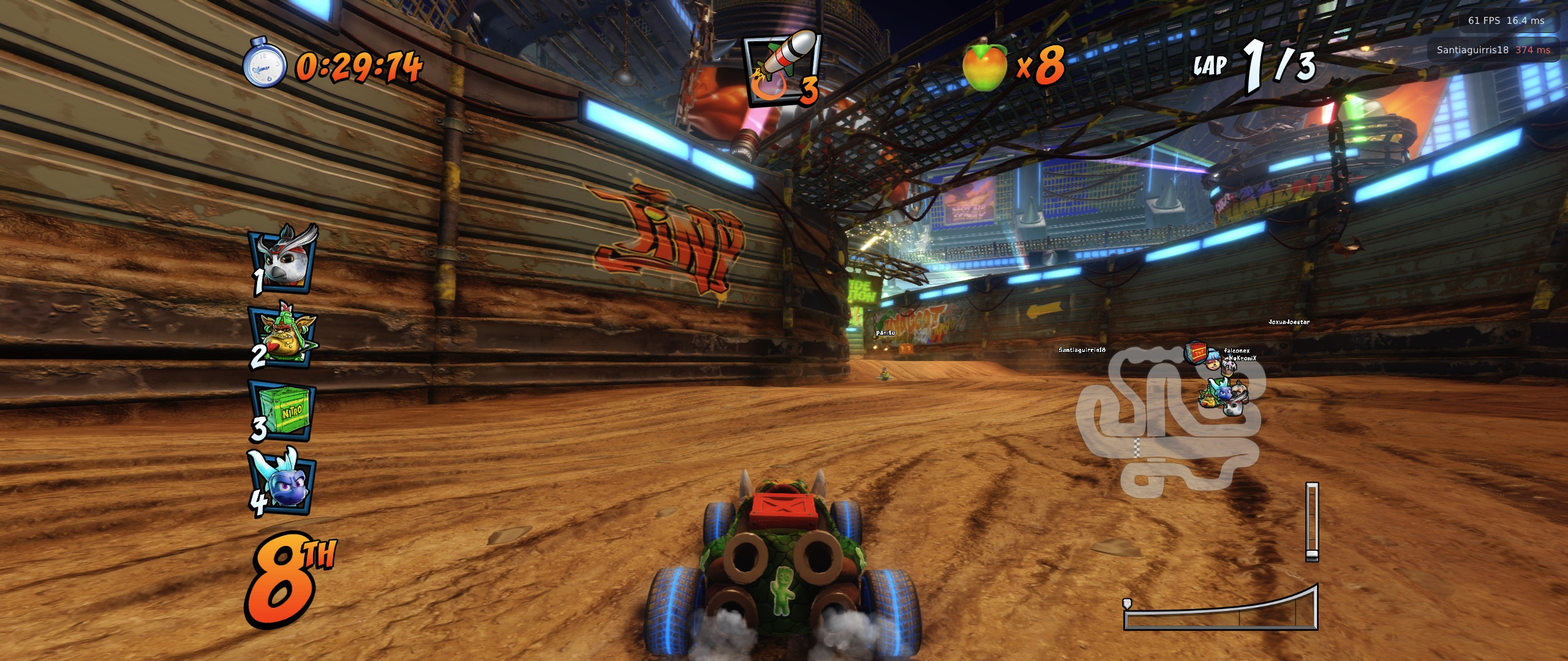
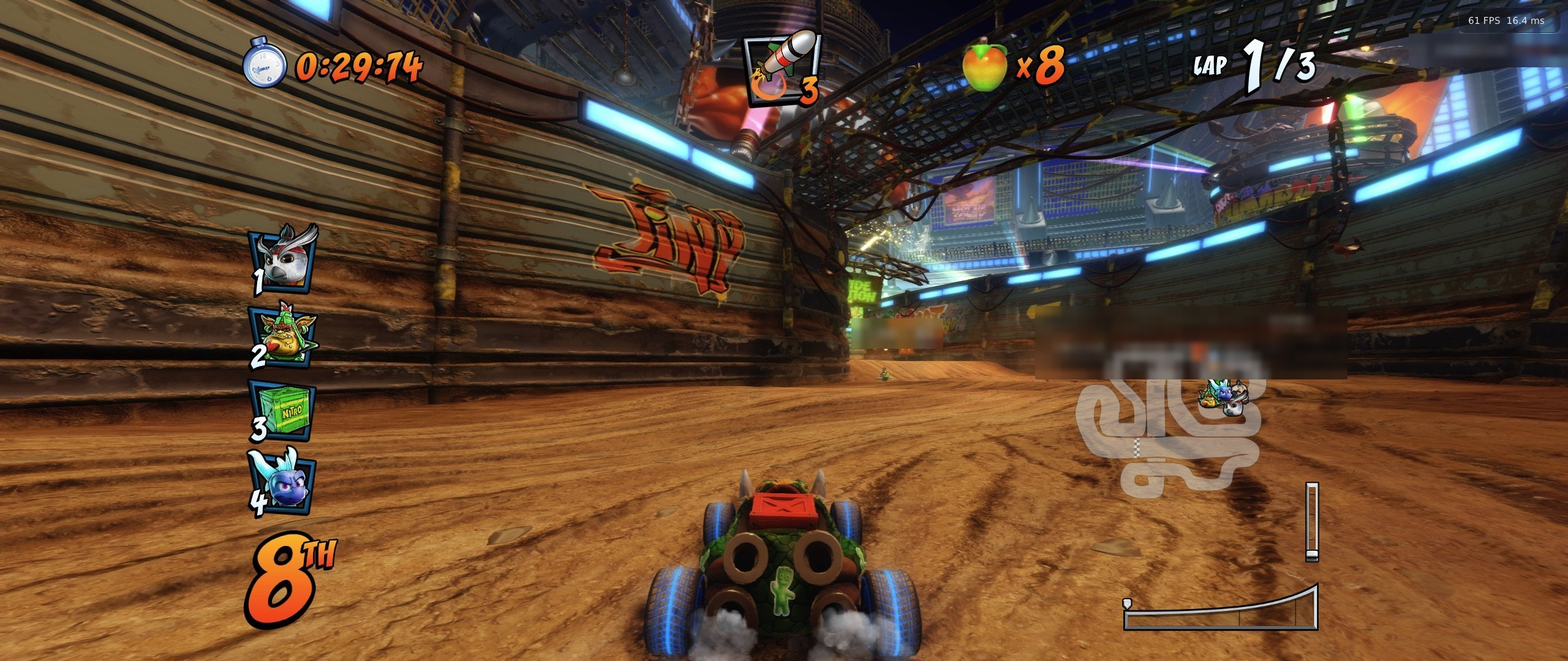
README (EN/ID): neutral wording, upstream README renamed to README-OCTR.md, other players' nicknames and local paths blurred in screenshots
Claude-Session: https://claude.ai/code/session_01FV5uGuRfTVXw7BX41maKGX

diff --git a/README.id.md b/README.id.md
@@ -5,9 +5,9 @@
 
 **Port macOS (Apple Silicon) dari [OCTR: CTR Nitro-Fueled PC, online](https://github.com/Ryu7w7/OCTR-NitroFueled-PC), dikerjakan oleh Momochan32.**
 
-> **Penting.** Ini **fork**, bukan proyek yang dibuat dari nol. Hampir seluruh isinya hasil kerja komunitas: cara menjalankan game di PC, grafis, mode online, patch, dan launcher. Yang dikerjakan di fork ini adalah **membuatnya bisa berjalan di macOS** (rinciannya di [Apa yang dikerjakan fork ini](#apa-yang-dikerjakan-fork-ini)).
+> **Tentang proyek ini.** Ini **fork** dari OCTR, bukan proyek yang dibuat dari nol. Hampir seluruh isinya hasil karya proyek-proyek komunitas yang disebut di bawah: cara menjalankan game di PC, grafis, mode online, patch, dan launcher. Fork ini menambahkan **dukungan macOS** (rinciannya di [Yang ditambahkan fork ini](#yang-ditambahkan-fork-ini)).
 >
-> Proyek ini **tidak resmi**. Tidak berafiliasi dengan, tidak didukung oleh, dan bukan bagian dari tim OCTR, SacredFire, CTR-NitroFueled-PC, shadPS4, Activision, Beenox, atau Sony. Masalah pada versi Mac ini **jangan dilaporkan ke proyek-proyek tersebut**. Laporkan di [Issues repo ini](https://github.com/momochan32/ctr-on-mac/issues).
+> Port ini **tidak resmi** dan independen: tidak berafiliasi dengan, dan tidak didukung oleh, tim OCTR, SacredFire, CTR-NitroFueled-PC, shadPS4, Activision, Beenox, maupun Sony. Supaya tidak menambah beban para pengembang asli, laporkan hal yang khusus versi Mac di [Issues repo ini](https://github.com/momochan32/ctr-on-mac/issues).
 
 ![Balapan online di monitor ultrawide 21:9](docs/macos/online-race-ultrawide.jpg)
 
@@ -31,14 +31,14 @@ Nama "CTR-Online on Mac" hanya nama deskriptif untuk port macOS ini. Bukan rilis
 
 ---
 
-## Apa yang dikerjakan fork ini
+## Yang ditambahkan fork ini
 
 Semua perubahan bisa dilihat di riwayat commit. Garis besarnya:
 
 **Port ke macOS**
 - Runtime di macOS / Rosetta 2: pengganti API khusus Linux (`src/compat_mac.h`), TCB guest di slot `pthread` (meniru pendekatan port Windows di proyek asal), rentang memori PS4 digeser di atas area yang dipakai GPU Apple Silicon, dan page fault lewat `SIGBUS`.
 - Grafis: build library GPU untuk macOS, jendela SDL di main thread, surface Metal lewat KosmicKrisp, dan memori game diimpor ke Vulkan (`VK_EXT_external_memory_host`).
-- Penyesuaian untuk driver Mac: GPU breadcrumbs dimatikan karena membuat GPU bekerja serial, MSAA dimatikan karena hasilnya hitam, dan fallback tipe memori untuk FSR 3.1.
+- Pengaturan yang disesuaikan untuk sistem grafis Mac: diagnostik GPU breadcrumbs dimatikan secara default di macOS (di sana biayanya besar untuk performa), MSAA belum ditawarkan (belum tampil dengan benar di setup ini), dan FSR 3.1 mendapat fallback tipe memori untuk unified memory Apple.
 - Restart dari dalam game lewat `posix_spawn`.
 
 **Launcher dan paket**
@@ -46,7 +46,7 @@ Semua perubahan bisa dilihat di riwayat commit. Garis besarnya:
 - Terjemahan Bahasa Indonesia dan halaman kredit.
 - Aplikasi `.app` dan DMG.
 
-Fitur game (online, patch, layout 21:9, FSR, mods, pencapaian) **berasal dari proyek asal**. Fork ini hanya membuatnya berjalan di Mac.
+Fitur game (online, patch, layout 21:9, FSR, mods, pencapaian) **adalah karya proyek-proyek asal**. Fork ini membuatnya bisa dipakai di Mac.
 
 ---
 
@@ -90,7 +90,7 @@ Angka ini dari pengujian pribadi di satu Mac, bukan benchmark resmi. Hasil di Ma
   ```sh
   brew install bash python gtk4 libadwaita pygobject3 adwaita-icon-theme
   ```
-- **Game milikmu sendiri.** Dump CTR Nitro-Fueled **CUSA13795 v1.21** (base + update digabung) dari konsol/salinan yang kamu miliki secara sah. **Repo dan rilis ini tidak menyertakan, membagikan, atau menautkan file game, firmware, maupun kunci apa pun.** Jangan minta file game di Issues.
+- **Game milikmu sendiri.** Dump CTR Nitro-Fueled **CUSA13795 v1.21** (base + update digabung) dari konsol/salinan yang kamu miliki secara sah. **Repo dan rilis ini tidak menyertakan, membagikan, atau menautkan file game, firmware, maupun kunci apa pun.** Permintaan file game tidak dapat dilayani.
 
 ### Pasang
 1. Unduh `CTR-Online-on-Mac.dmg` dari [Releases](https://github.com/momochan32/ctr-on-mac/releases).
@@ -111,13 +111,13 @@ Pengaturan dan save disimpan di `~/Library/Application Support/CTR-Online`. Menu
 Mode online memakai **server RyuNET milik proyek OCTR**, bukan server milik fork ini.
 - Aturan, moderasi, dan ban sepenuhnya wewenang admin OCTR. Patuhi aturan mereka (tercantum di launcher).
 - Pertanyaan atau banding soal server diajukan di komunitas OCTR (tautan Discord ada di launcher).
-- Versi Mac bisa saja berperilaku berbeda dari versi resmi. Kalau admin server meminta klien tidak resmi tidak dipakai di server mereka, permintaan itu akan dihormati.
+- Versi Mac bisa saja berperilaku berbeda dari versi resmi. Setiap permintaan admin server terkait klien tidak resmi akan diikuti.
 
 ---
 
 ## Batasan yang diketahui
 
-- MSAA tidak tersedia di Mac (driver menggambar scene MSAA hitam). FSR 3.1 dipakai sebagai gantinya.
+- MSAA belum tersedia di Mac; anti-aliasing FSR 3.1 dipakai sebagai gantinya.
 - Mode PS4 Pro otomatis mati saat layout 21:9 aktif (perilaku proyek asal).
 - Layar MacBook (16:10) menampilkan bar hitam tipis, karena game ini 16:9.
 - Baru dites di satu perangkat (MacBook Pro M3 Max).
@@ -143,7 +143,7 @@ Terima kasih kepada semua orang yang karyanya menjadi dasar port ini:
 - **T3CHNOLOG1C**: SacredFire, port Linux native.
 - **GetLostIn**: CTR-NitroFueled-PC (build Windows, perbaikan MSAA, bulu karakter, rendering).
 - **Ryu7w7** dan kontributor OCTR: mode online RyuNET, server, launcher, mods, dan banyak perbaikan.
-- **Kontributor OCTR** yang disebut di riwayat rilisnya, antara lain tcosi (layout 21:9/32:9, mods), Brony666 (launcher Linux, Achievements, Mods), SoyAlejandroCalixto, Vo1dTear, n0buholic, MetaHeart, dan Naif Alqurashi. Daftar lengkapnya ada di [README-SacredFire.md](README-SacredFire.md) dan riwayat commit repo ini.
+- **Kontributor OCTR** yang disebut di riwayat rilisnya, antara lain tcosi (layout 21:9/32:9, mods), Brony666 (launcher Linux, Achievements, Mods), SoyAlejandroCalixto, Vo1dTear, n0buholic, MetaHeart, dan Naif Alqurashi. Daftar lengkapnya ada di [README-OCTR.md](README-OCTR.md) dan riwayat commit repo ini.
 - **bbport**: desain runtime asal.
 - **Tim shadPS4**: inti grafis dan shader recompiler.
 - **Pengembang Mesa / KosmicKrisp**: Vulkan di atas Metal.
@@ -161,7 +161,7 @@ Kalau ada nama atau karya yang terlewat atau salah disebut, kabari lewat Issues 
 
 - Kode berlisensi **GPL-2.0-or-later**, sama seperti proyek asal (lihat [LICENSE](LICENSE)). Komponen pihak ketiga mengikuti lisensinya masing-masing. Source lengkap untuk setiap rilis ada di repo ini.
 - *Crash Team Racing Nitro-Fueled*, *Crash Bandicoot*, dan semua merek terkait adalah milik **Activision Publishing, Inc.** *PlayStation* dan *PS4* adalah merek **Sony Interactive Entertainment**. Nama-nama tersebut dipakai hanya untuk menjelaskan kompatibilitas.
-- Proyek komunitas non-komersial untuk preservasi dan pemakaian pribadi: tidak dijual, tidak menerima donasi, dan tidak menyertakan konten berhak cipta milik pemegang hak game.
+- Proyek komunitas non-komersial untuk pemakaian pribadi dan preservasi: tidak dijual, tidak menerima donasi, dan tidak berisi konten milik pemegang hak game.
 - Pemegang hak yang keberatan dengan isi repo ini dapat menghubungi lewat Issues, dan akan segera ditindaklanjuti.
 
-> README asli proyek OCTR: [README-SacredFire.md](README-SacredFire.md)
+> README asli proyek OCTR: [README-OCTR.md](README-OCTR.md)

diff --git a/README.md b/README.md
@@ -4,9 +4,9 @@
 
 **A macOS (Apple Silicon) port of [OCTR: CTR Nitro-Fueled PC, online](https://github.com/Ryu7w7/OCTR-NitroFueled-PC), by Momochan32.**
 
-> **Please note.** This is a **fork**, not a project built from scratch. Nearly everything in it is the community's work: running the game natively on PC, graphics, online play, patches, and the launcher. This fork's part is **making it run on macOS** (details in [What this fork does](#what-this-fork-does)).
+> **About this project.** This is a **fork** of OCTR, not a project built from scratch. Nearly everything in it is the work of the community projects listed below: running the game natively on PC, graphics, online play, patches and the launcher. This fork adds **macOS support** (details in [What this fork adds](#what-this-fork-adds)).
 >
-> This project is **unofficial**. It is not affiliated with, endorsed by, or part of the OCTR, SacredFire, CTR-NitroFueled-PC or shadPS4 teams, nor Activision, Beenox or Sony. **Do not report problems with the Mac version to those projects.** Use [this repository's Issues](https://github.com/momochan32/ctr-on-mac/issues) instead.
+> This port is **unofficial** and independent: it is not affiliated with or endorsed by the OCTR, SacredFire, CTR-NitroFueled-PC or shadPS4 teams, nor by Activision, Beenox or Sony. To keep the upstream maintainers' time free, please report anything specific to the Mac version in [this repository's Issues](https://github.com/momochan32/ctr-on-mac/issues).
 
 ![Online race on a 21:9 ultrawide monitor](docs/macos/online-race-ultrawide.jpg)
 
@@ -30,14 +30,14 @@ Third-party components:
 
 ---
 
-## What this fork does
+## What this fork adds
 
 Every change is in the commit history. In short:
 
 **macOS port**
 - Runtime on macOS / Rosetta 2: replacements for Linux-only APIs (`src/compat_mac.h`), the guest TCB in a `pthread` slot (the approach of the upstream Windows port), the PS4 address range moved above the region Apple Silicon reserves for the GPU, and page faults through `SIGBUS`.
 - Graphics: the GPU library built for macOS, the SDL window on the main thread, a Metal surface through KosmicKrisp, and game memory imported into Vulkan (`VK_EXT_external_memory_host`).
-- Mac driver adjustments: GPU breadcrumbs off because they serialize the GPU, MSAA off because it renders black, and a memory-type fallback for FSR 3.1.
+- Settings tuned for the Mac graphics stack: the GPU breadcrumbs diagnostic is off by default on macOS (it costs a lot of performance there), MSAA is not offered (it does not display correctly on this setup yet), and FSR 3.1 gets a memory-type fallback for Apple's unified memory.
 - In-game restart through `posix_spawn`.
 
 **Launcher and packaging**
@@ -45,7 +45,7 @@ Every change is in the commit history. In short:
 - Indonesian translation and a credits page.
 - `.app` bundle and DMG.
 
-The game features (online, patches, 21:9 layouts, FSR, mods, achievements) **come from the upstream project**. This fork only makes them run on the Mac.
+The game features (online, patches, 21:9 layouts, FSR, mods, achievements) **are the upstream projects' work**; this fork makes them available on the Mac.
 
 ---
 
@@ -89,7 +89,7 @@ These numbers come from personal testing on a single Mac, not an official benchm
   ```sh
   brew install bash python gtk4 libadwaita pygobject3 adwaita-icon-theme
   ```
-- **Your own game.** A dump of CTR Nitro-Fueled **CUSA13795 v1.21** (base game with the update merged) from a console/copy you legally own. **This repository and its releases do not include, share or link to any game files, firmware or keys.** Please do not ask for game files in Issues.
+- **Your own game.** A dump of CTR Nitro-Fueled **CUSA13795 v1.21** (base game with the update merged) from a console/copy you legally own. **This repository and its releases do not include, share or link to any game files, firmware or keys.** Requests for game files cannot be answered.
 
 ### Install
 1. Download `CTR-Online-on-Mac.dmg` from [Releases](https://github.com/momochan32/ctr-on-mac/releases).
@@ -110,13 +110,13 @@ Settings and saves live in `~/Library/Application Support/CTR-Online`. The in-ga
 Online play uses the **OCTR project's RyuNET server**, not a server run by this fork.
 - Rules, moderation and bans are entirely up to the OCTR admins. Follow their rules (shown in the launcher).
 - Questions or appeals about the server belong in the OCTR community (Discord link in the launcher).
-- The Mac version may behave differently from the official builds. If the server admins ask that unofficial clients not be used on their server, that request will be respected.
+- The Mac version may behave differently from the official builds. Any request from the server admins about unofficial clients will be followed.
 
 ---
 
 ## Known limitations
 
-- No MSAA on the Mac (the driver renders the MSAA scene black). FSR 3.1 is used instead.
+- MSAA is not available on the Mac yet; FSR 3.1 anti-aliasing is used instead.
 - PS4 Pro mode turns off while a 21:9 layout is on (upstream behavior).
 - The MacBook screen (16:10) shows thin black bars, since the game is 16:9.
 - Tested on one device only (MacBook Pro M3 Max).
@@ -142,7 +142,7 @@ Thank you to everyone whose work this port is built on:
 - **T3CHNOLOG1C**: SacredFire, the native Linux port.
 - **GetLostIn**: CTR-NitroFueled-PC (the Windows build; MSAA, fur and rendering fixes).
 - **Ryu7w7** and the OCTR contributors: RyuNET online play, the server, launchers, mods and many fixes.
-- **OCTR contributors** named in its release history, among them tcosi (21:9/32:9 layouts, mods), Brony666 (Linux launcher, Achievements, Mods), SoyAlejandroCalixto, Vo1dTear, n0buholic, MetaHeart and Naif Alqurashi. The full list is in [README-SacredFire.md](README-SacredFire.md) and this repository's commit history.
+- **OCTR contributors** named in its release history, among them tcosi (21:9/32:9 layouts, mods), Brony666 (Linux launcher, Achievements, Mods), SoyAlejandroCalixto, Vo1dTear, n0buholic, MetaHeart and Naif Alqurashi. The full list is in [README-OCTR.md](README-OCTR.md) and this repository's commit history.
 - **bbport**: the original runtime design.
 - **The shadPS4 team**: the graphics core and shader recompiler.
 - **The Mesa / KosmicKrisp developers**: Vulkan on Metal.
@@ -160,7 +160,7 @@ If anyone is missing or credited incorrectly, please open an Issue and it will b
 
 - The code is licensed under **GPL-2.0-or-later**, like the upstream project (see [LICENSE](LICENSE)). Third-party components keep their own licenses. Complete source for every release is in this repository.
 - *Crash Team Racing Nitro-Fueled*, *Crash Bandicoot* and related marks belong to **Activision Publishing, Inc.** *PlayStation* and *PS4* are trademarks of **Sony Interactive Entertainment**. They are used only to describe compatibility.
-- A non-commercial community project for preservation and personal use: not sold, no donations, and no copyrighted content of the game's rights holders included.
+- A non-commercial community project for personal use and preservation: it is not sold, accepts no donations, and contains no content owned by the game's rights holders.
 - Rights holders with concerns about this repository can reach out through Issues, and they will be addressed promptly.
 
-> The upstream OCTR README: [README-SacredFire.md](README-SacredFire.md)
+> The upstream OCTR README: [README-OCTR.md](README-OCTR.md)
